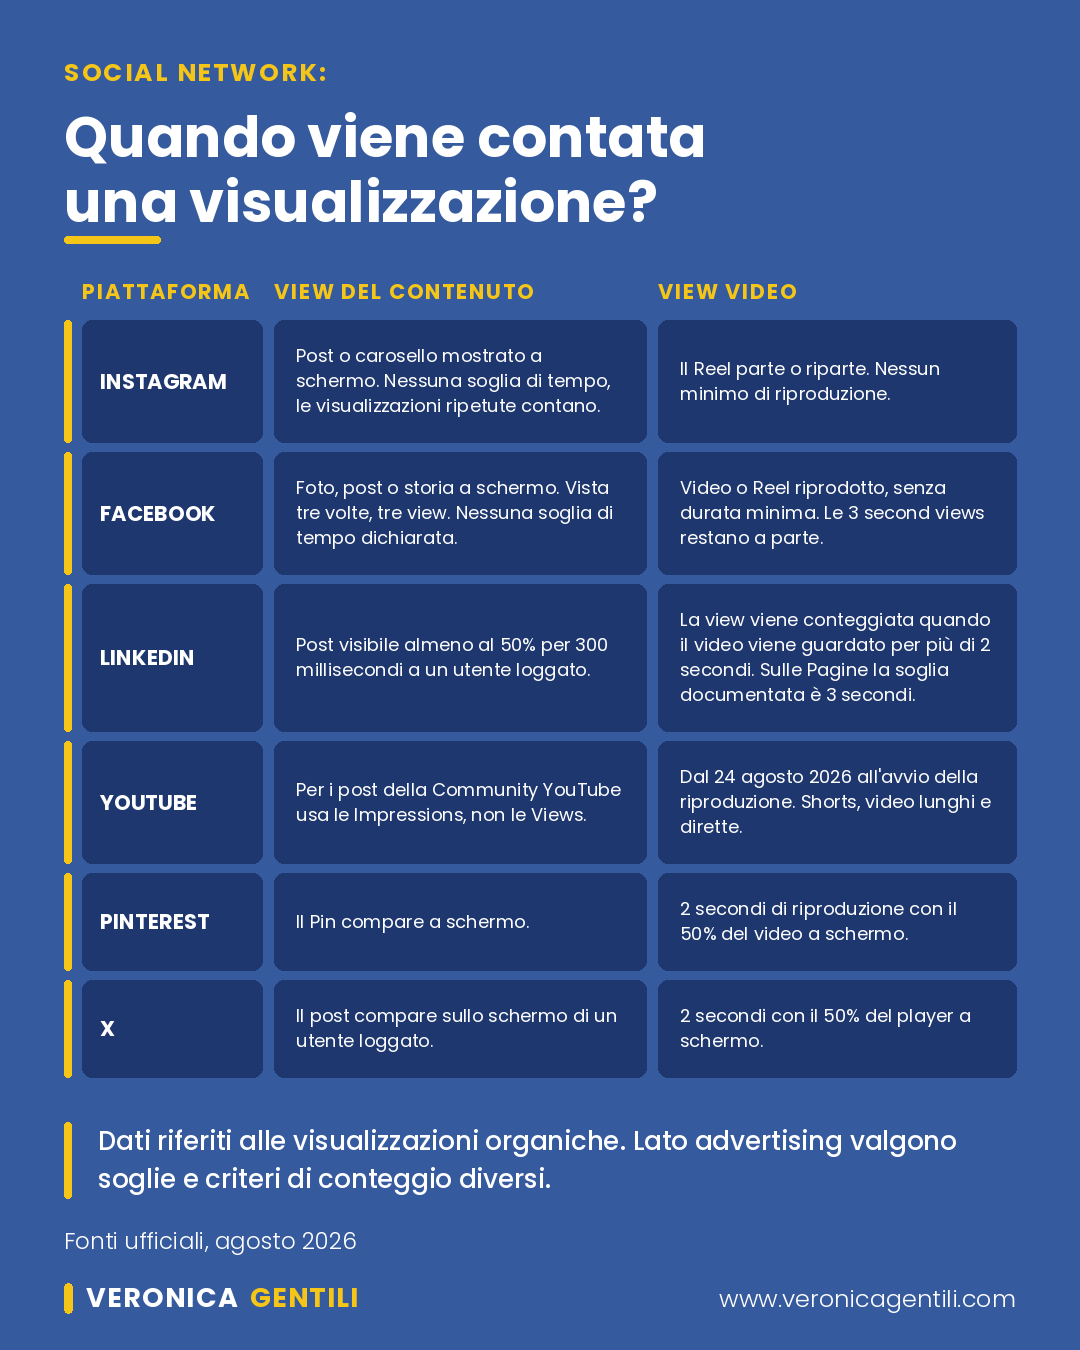
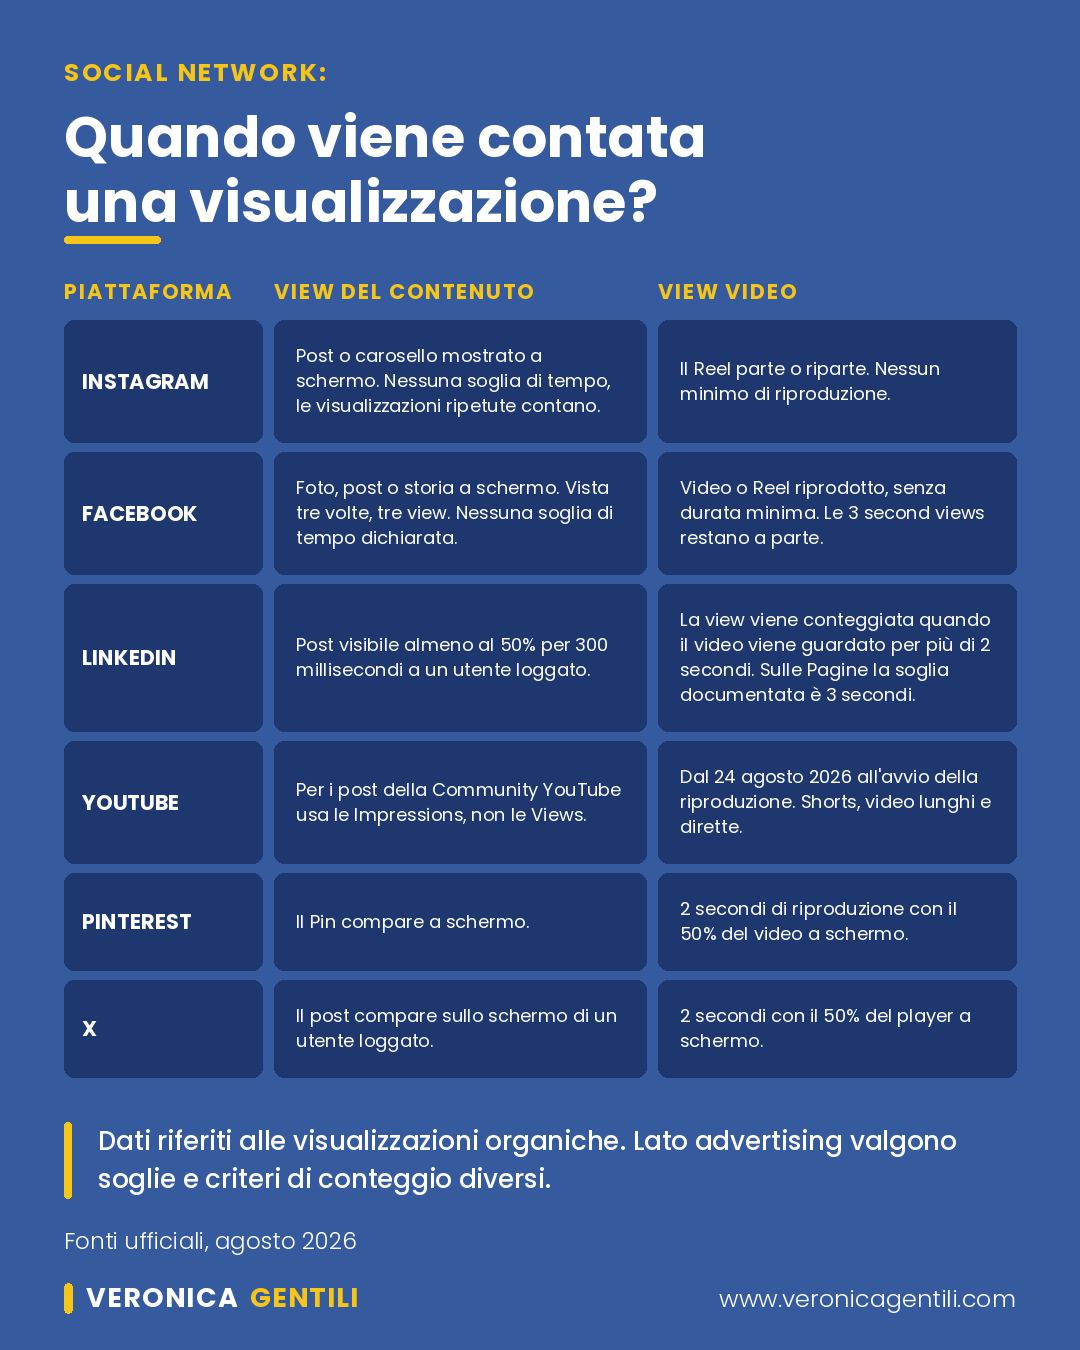
Rimuove la barra gialla accanto ai nomi delle piattaforme
I box piattaforma partono ora dal margine di 64 px. L'accento giallo resta
sul titolo, sulle intestazioni di colonna e sulla nota finale.

Claude-Session: https://claude.ai/code/session_015AprcKjpKNJkbQiwrdGUoa

Changed region(s): [[0.0611, 0.1867, 0.2139, 0.8089]]

diff --git a/infografiche/visualizzazioni-social/genera_infografica.py b/infografiche/visualizzazioni-social/genera_infografica.py
@@ -104,7 +104,7 @@ y += 40
 
 # --- griglia colonne
 BAR_X0, BAR_W = MARGIN, 7
-PLAT_X0, PLAT_X1 = 82, 262
+PLAT_X0, PLAT_X1 = MARGIN, 262
 C2_X0,  C2_X1   = 274, 646
 C3_X0,  C3_X1   = 658, W - MARGIN
 
@@ -140,9 +140,6 @@ for size in range(23, 14, -1):
 f_plat = font(F_BOLD, 21)
 row_y = ROWS_TOP
 for (plat, _, _), (l2, l3), rh in zip(ROWS, wrapped, heights):
-    # accento giallo
-    draw.rounded_rectangle([(BAR_X0, row_y), (BAR_X0 + BAR_W, row_y + rh)],
-                           radius=3, fill=GIALLO)
     # box piattaforma
     draw.rounded_rectangle([(PLAT_X0, row_y), (PLAT_X1, row_y + rh)],
                            radius=10, fill=BLU_DARK)
